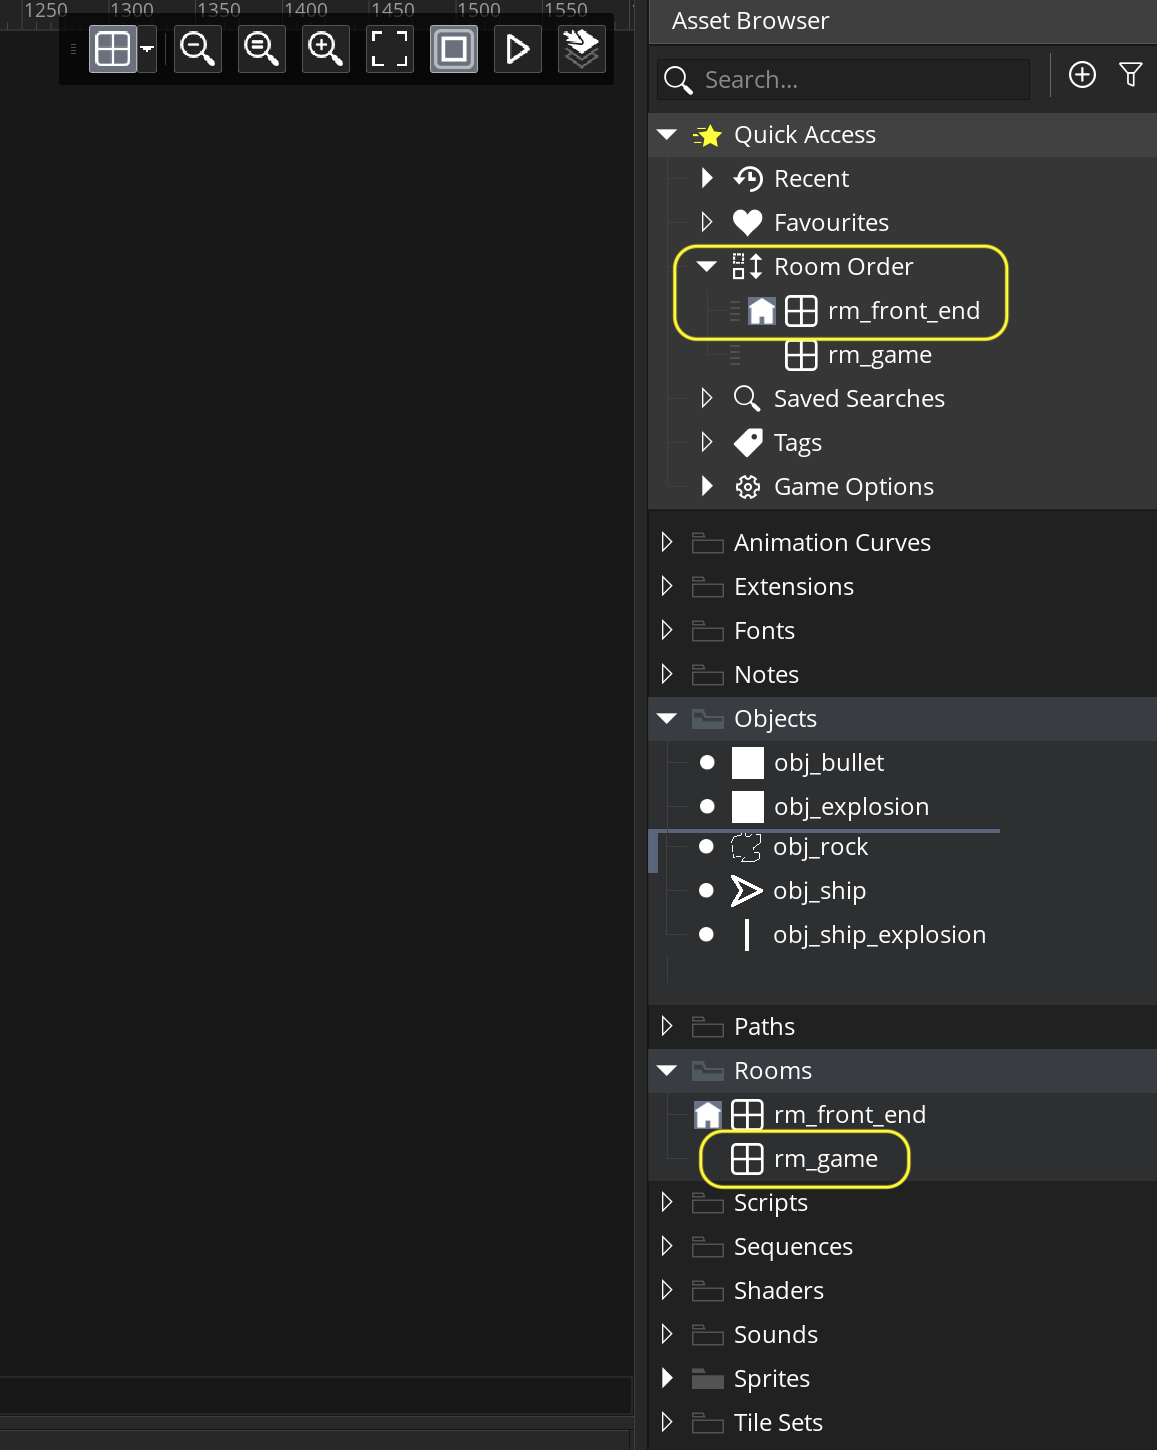
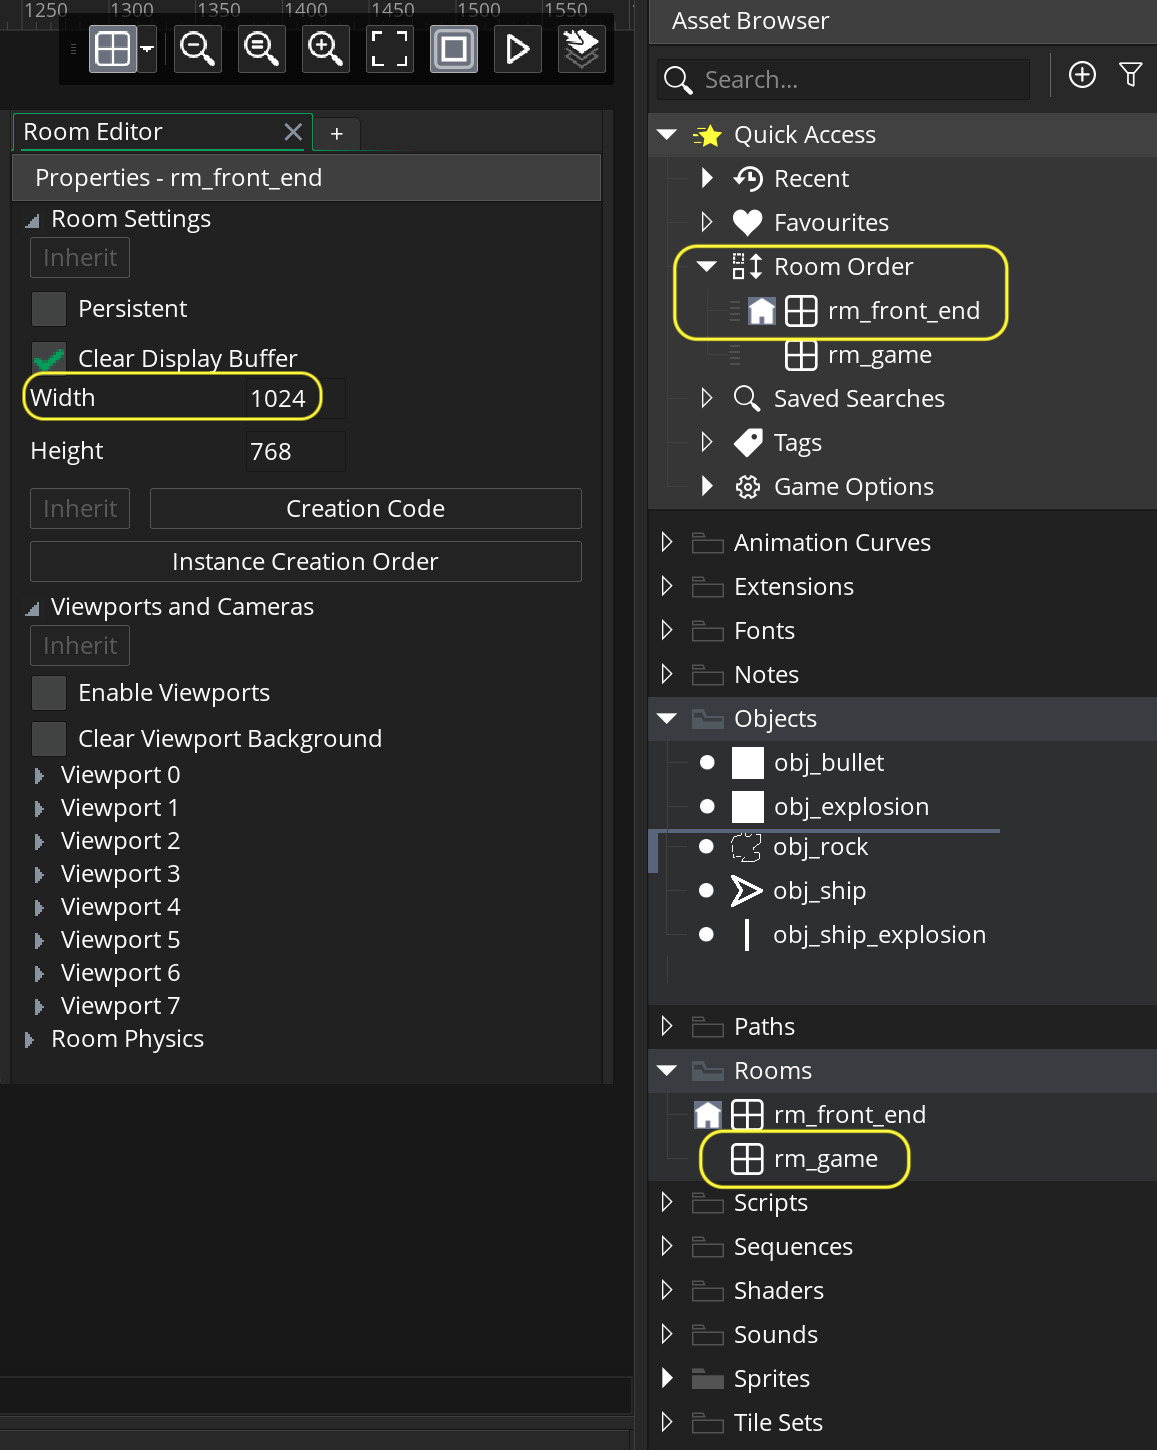
Update space rocks

Changed region(s): [[0.0, 0.0621, 0.529, 0.3724], [0.0311, 0.3414, 0.3734, 0.7448]]

diff --git a/game-loop/README.md b/game-loop/README.md
@@ -15,7 +15,7 @@ Lets look at implementing a start screen. Lets have some rocks floating in the b
 
 ##### `Step 1.`\|`SPCRK`|:small_blue_diamond:
 
-*Right click* on **Rooms** and select **New | Room** and name it `rm_front_end`. Change the **Room Order** to place this room on the top of the list.
+*Right click* on **Rooms** and select **New | Room** and name it `rm_front_end`. Change the **Room Order** to place this room on the top of the list. Change the **Width** to `1024`.
 
 ![add rm_front_end and put on the top of room order](images/rmFE.png)
 

diff --git a/lives/README.md b/lives/README.md
@@ -87,7 +87,8 @@ Now *press* the <kbd>Play</kbd> button in the top menu bar to launch the game. N
 
 ##### `Step 10.`\|`SPCRK`| :large_blue_diamond:
 
-![alt_text](images/.png)
+Open up **obj_game | Draw** and add text for the lose screen.  
+![alt_text](images/gameOver.png)
 
 <img src="https://via.placeholder.com/500x2/45D7CA/45D7CA" alt="drawing" height="2px" alt = ""/>
 
